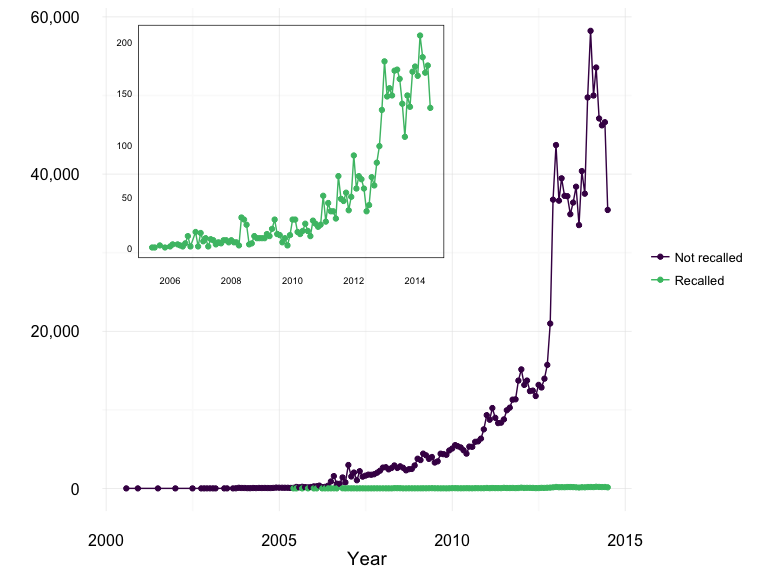
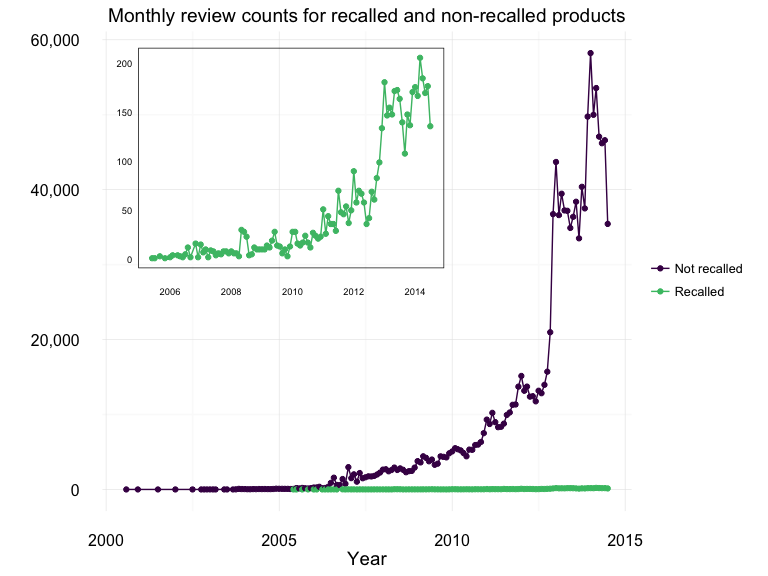
Add titles to some review summary plots

diff --git a/notebooks/review_summary_vis.md b/notebooks/review_summary_vis.md
@@ -89,7 +89,7 @@ fullplot <- ggplot(yearly_tally, aes(x = year, y = n, color = recall)) +
   labs(x = "Year",
        y = "",
        color = "",
-       title = "Reviews per year")
+       title = "Yearly review counts for recalled and non-recalled products")
 
 ## Recalled products only
 recallplot <- ggplot(yearly_tally[yearly_tally$recall == "Recalled", ],
@@ -128,7 +128,8 @@ fullplot_mo <- ggplot(monthly_tally, aes(x = newdate, y = n, color = recall)) +
   scale_y_continuous(labels = comma) +
   labs(x = "Year",
        y = "",
-       color = "")
+       color = "",
+       title = "Monthly review counts for recalled and non-recalled products")
 
 ## Recalled only
 recallplot_mo <- ggplot(monthly_tally[monthly_tally$recall == "Recalled", ],
@@ -161,7 +162,8 @@ ggplot(amz_clean, aes(x = overall, fill = recall)) +
   facet_grid(recall ~ ., scales = "free_y") +
   scale_fill_viridis(discrete = TRUE, end = 0.7) +
   labs(y = "Count",
-       x = "Rating") +
+       x = "Rating",
+       title = "Rating distribution for recalled and non-recalled products") +
   theme(legend.position = "none")
 ```
 
